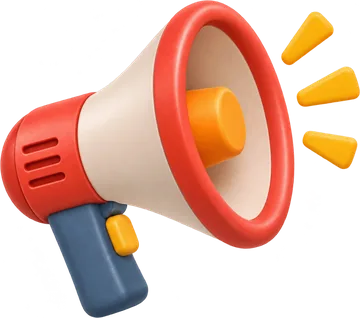
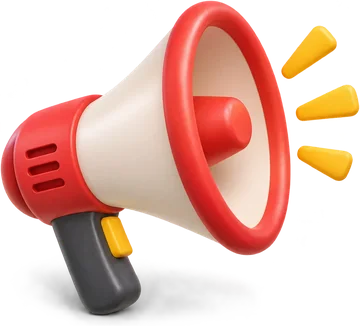
Use the new soft 3D images on Home

diff --git a/app/page.tsx b/app/page.tsx
@@ -27,7 +27,7 @@ export default async function Home() {
             {n === 1 ? s.oneDog : fill(s.dogsCount, { n })}
           </span>
           {/* eslint-disable-next-line @next/next/no-img-element */}
-          <img src="/home/dog.webp" alt="" width={560} height={640} className="mx-auto h-[210px] w-auto" />
+          <img src="/home/dog.webp" alt="" width={567} height={640} className="mx-auto h-[210px] w-auto" />
           <h1 className="mt-3 text-title">{s.browseDogs}</h1>
           <p className="mt-1 text-subhead text-balance text-label-2">{s.tagline}</p>
         </Link>
